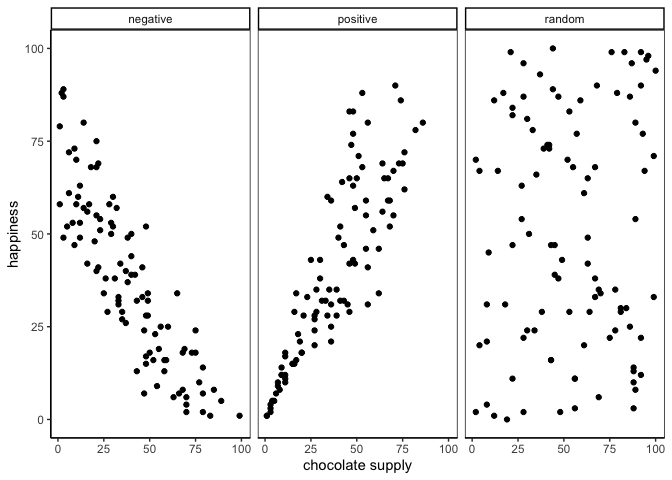
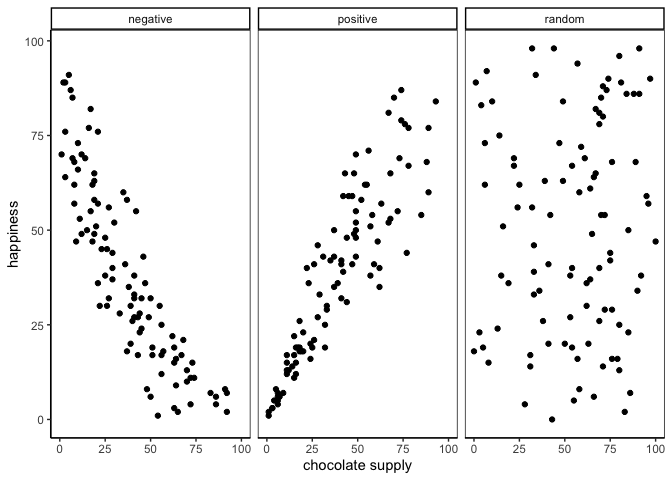
Fixed begining quotation but formatting weird/inconsistent between chapters.

diff --git a/docs/02-Correlation.html b/docs/02-Correlation.html
@@ -278,8 +278,7 @@ div.csl-indent {
 </header>
 
 <blockquote class="blockquote">
-<p>Correlation does not equal causation.*<br>
-Every Statistics Instructor Ever</p>
+<p><em>Correlation does not equal causation.</em> Every Statistics Instructor Ever</p>
 </blockquote>
 <p>In the last chapter, we worked with data that felt overwhelming at first. We used plots and histograms to make the data visible, and descriptive statistics to summarize their central tendency and variability.</p>
 <p>We learned those tools because we want to use data to answer questions. That theme runs through this course. As you read each section, keep asking yourself: how does this concept help me answer questions with data?</p>
@@ -319,12 +318,12 @@ Every Statistics Instructor Ever</p>
 <tr class="even">
 <td style="text-align: right;">2</td>
 <td style="text-align: right;">2</td>
-<td style="text-align: right;">2</td>
+<td style="text-align: right;">1</td>
 </tr>
 <tr class="odd">
 <td style="text-align: right;">3</td>
-<td style="text-align: right;">3</td>
 <td style="text-align: right;">2</td>
+<td style="text-align: right;">3</td>
 </tr>
 <tr class="even">
 <td style="text-align: right;">4</td>
@@ -338,28 +337,28 @@ Every Statistics Instructor Ever</p>
 </tr>
 <tr class="even">
 <td style="text-align: right;">6</td>
-<td style="text-align: right;">3</td>
-<td style="text-align: right;">3</td>
+<td style="text-align: right;">5</td>
+<td style="text-align: right;">5</td>
 </tr>
 <tr class="odd">
 <td style="text-align: right;">7</td>
-<td style="text-align: right;">4</td>
-<td style="text-align: right;">5</td>
+<td style="text-align: right;">7</td>
+<td style="text-align: right;">7</td>
 </tr>
 <tr class="even">
 <td style="text-align: right;">8</td>
-<td style="text-align: right;">6</td>
+<td style="text-align: right;">7</td>
 <td style="text-align: right;">5</td>
 </tr>
 <tr class="odd">
 <td style="text-align: right;">9</td>
-<td style="text-align: right;">7</td>
 <td style="text-align: right;">5</td>
+<td style="text-align: right;">8</td>
 </tr>
 <tr class="even">
 <td style="text-align: right;">10</td>
-<td style="text-align: right;">5</td>
-<td style="text-align: right;">6</td>
+<td style="text-align: right;">10</td>
+<td style="text-align: right;">7</td>
 </tr>
 </tbody>
 </table>
@@ -456,13 +455,13 @@ Note
 <tr class="even">
 <td style="text-align: left;">2</td>
 <td style="text-align: left;">2</td>
+<td style="text-align: left;">1</td>
 <td style="text-align: left;">2</td>
-<td style="text-align: left;">4</td>
 </tr>
 <tr class="odd">
 <td style="text-align: left;">3</td>
-<td style="text-align: left;">3</td>
 <td style="text-align: left;">2</td>
+<td style="text-align: left;">3</td>
 <td style="text-align: left;">6</td>
 </tr>
 <tr class="even">
@@ -479,45 +478,45 @@ Note
 </tr>
 <tr class="even">
 <td style="text-align: left;">6</td>
-<td style="text-align: left;">3</td>
-<td style="text-align: left;">3</td>
-<td style="text-align: left;">9</td>
+<td style="text-align: left;">5</td>
+<td style="text-align: left;">5</td>
+<td style="text-align: left;">25</td>
 </tr>
 <tr class="odd">
 <td style="text-align: left;">7</td>
-<td style="text-align: left;">4</td>
-<td style="text-align: left;">5</td>
-<td style="text-align: left;">20</td>
+<td style="text-align: left;">7</td>
+<td style="text-align: left;">7</td>
+<td style="text-align: left;">49</td>
 </tr>
 <tr class="even">
 <td style="text-align: left;">8</td>
-<td style="text-align: left;">6</td>
-<td style="text-align: left;">5</td>
-<td style="text-align: left;">30</td>
-</tr>
-<tr class="odd">
-<td style="text-align: left;">9</td>
 <td style="text-align: left;">7</td>
 <td style="text-align: left;">5</td>
 <td style="text-align: left;">35</td>
 </tr>
+<tr class="odd">
+<td style="text-align: left;">9</td>
+<td style="text-align: left;">5</td>
+<td style="text-align: left;">8</td>
+<td style="text-align: left;">40</td>
+</tr>
 <tr class="even">
 <td style="text-align: left;">10</td>
-<td style="text-align: left;">5</td>
-<td style="text-align: left;">6</td>
-<td style="text-align: left;">30</td>
+<td style="text-align: left;">10</td>
+<td style="text-align: left;">7</td>
+<td style="text-align: left;">70</td>
 </tr>
 <tr class="odd">
 <td style="text-align: left;">Sums</td>
-<td style="text-align: left;">38</td>
-<td style="text-align: left;">36</td>
-<td style="text-align: left;">160</td>
+<td style="text-align: left;">46</td>
+<td style="text-align: left;">44</td>
+<td style="text-align: left;">253</td>
 </tr>
 <tr class="even">
 <td style="text-align: left;">Means</td>
-<td style="text-align: left;">3.8</td>
-<td style="text-align: left;">3.6</td>
-<td style="text-align: left;">16</td>
+<td style="text-align: left;">4.6</td>
+<td style="text-align: left;">4.4</td>
+<td style="text-align: left;">25.3</td>
 </tr>
 </tbody>
 </table>
@@ -731,97 +730,97 @@ Note
 <td style="text-align: left;">1</td>
 <td style="text-align: left;">1</td>
 <td style="text-align: left;">1</td>
-<td style="text-align: left;">-2.8</td>
-<td style="text-align: left;">-2.6</td>
-<td style="text-align: left;">7.28</td>
+<td style="text-align: left;">-3.6</td>
+<td style="text-align: left;">-3.4</td>
+<td style="text-align: left;">12.24</td>
 </tr>
 <tr class="even">
 <td style="text-align: left;">2</td>
 <td style="text-align: left;">2</td>
-<td style="text-align: left;">2</td>
-<td style="text-align: left;">-1.8</td>
-<td style="text-align: left;">-1.6</td>
-<td style="text-align: left;">2.88</td>
+<td style="text-align: left;">1</td>
+<td style="text-align: left;">-2.6</td>
+<td style="text-align: left;">-3.4</td>
+<td style="text-align: left;">8.84</td>
 </tr>
 <tr class="odd">
 <td style="text-align: left;">3</td>
-<td style="text-align: left;">3</td>
 <td style="text-align: left;">2</td>
-<td style="text-align: left;">-0.8</td>
-<td style="text-align: left;">-1.6</td>
-<td style="text-align: left;">1.28</td>
+<td style="text-align: left;">3</td>
+<td style="text-align: left;">-2.6</td>
+<td style="text-align: left;">-1.4</td>
+<td style="text-align: left;">3.64</td>
 </tr>
 <tr class="even">
 <td style="text-align: left;">4</td>
 <td style="text-align: left;">3</td>
 <td style="text-align: left;">3</td>
-<td style="text-align: left;">-0.8</td>
-<td style="text-align: left;">-0.6</td>
-<td style="text-align: left;">0.48</td>
+<td style="text-align: left;">-1.6</td>
+<td style="text-align: left;">-1.4</td>
+<td style="text-align: left;">2.24</td>
 </tr>
 <tr class="odd">
 <td style="text-align: left;">5</td>
 <td style="text-align: left;">4</td>
 <td style="text-align: left;">4</td>
-<td style="text-align: left;">0.2</td>
-<td style="text-align: left;">0.4</td>
-<td style="text-align: left;">0.08</td>
+<td style="text-align: left;">-0.6</td>
+<td style="text-align: left;">-0.4</td>
+<td style="text-align: left;">0.24</td>
 </tr>
 <tr class="even">
 <td style="text-align: left;">6</td>
-<td style="text-align: left;">3</td>
-<td style="text-align: left;">3</td>
-<td style="text-align: left;">-0.8</td>
-<td style="text-align: left;">-0.6</td>
-<td style="text-align: left;">0.48</td>
+<td style="text-align: left;">5</td>
+<td style="text-align: left;">5</td>
+<td style="text-align: left;">0.4</td>
+<td style="text-align: left;">0.6</td>
+<td style="text-align: left;">0.24</td>
 </tr>
 <tr class="odd">
 <td style="text-align: left;">7</td>
-<td style="text-align: left;">4</td>
-<td style="text-align: left;">5</td>
-<td style="text-align: left;">0.2</td>
-<td style="text-align: left;">1.4</td>
-<td style="text-align: left;">0.28</td>
+<td style="text-align: left;">7</td>
+<td style="text-align: left;">7</td>
+<td style="text-align: left;">2.4</td>
+<td style="text-align: left;">2.6</td>
+<td style="text-align: left;">6.24</td>
 </tr>
 <tr class="even">
 <td style="text-align: left;">8</td>
-<td style="text-align: left;">6</td>
+<td style="text-align: left;">7</td>
 <td style="text-align: left;">5</td>
-<td style="text-align: left;">2.2</td>
-<td style="text-align: left;">1.4</td>
-<td style="text-align: left;">3.08</td>
+<td style="text-align: left;">2.4</td>
+<td style="text-align: left;">0.6</td>
+<td style="text-align: left;">1.44</td>
 </tr>
 <tr class="odd">
 <td style="text-align: left;">9</td>
-<td style="text-align: left;">7</td>
 <td style="text-align: left;">5</td>
-<td style="text-align: left;">3.2</td>
-<td style="text-align: left;">1.4</td>
-<td style="text-align: left;">4.48</td>
+<td style="text-align: left;">8</td>
+<td style="text-align: left;">0.4</td>
+<td style="text-align: left;">3.6</td>
+<td style="text-align: left;">1.44</td>
 </tr>
 <tr class="even">
 <td style="text-align: left;">10</td>
-<td style="text-align: left;">5</td>
-<td style="text-align: left;">6</td>
-<td style="text-align: left;">1.2</td>
-<td style="text-align: left;">2.4</td>
-<td style="text-align: left;">2.88</td>
+<td style="text-align: left;">10</td>
+<td style="text-align: left;">7</td>
+<td style="text-align: left;">5.4</td>
+<td style="text-align: left;">2.6</td>
+<td style="text-align: left;">14.04</td>
 </tr>
 <tr class="odd">
 <td style="text-align: left;">Sums</td>
-<td style="text-align: left;">38</td>
-<td style="text-align: left;">36</td>
+<td style="text-align: left;">46</td>
+<td style="text-align: left;">44</td>
 <td style="text-align: left;">0</td>
 <td style="text-align: left;">0</td>
-<td style="text-align: left;">23</td>
+<td style="text-align: left;">51</td>
 </tr>
 <tr class="even">
 <td style="text-align: left;">Means</td>
-<td style="text-align: left;">3.8</td>
-<td style="text-align: left;">3.6</td>
+<td style="text-align: left;">4.6</td>
+<td style="text-align: left;">4.4</td>
 <td style="text-align: left;">0</td>
 <td style="text-align: left;">0</td>
-<td style="text-align: left;">2.32</td>
+<td style="text-align: left;">5.06</td>
 </tr>
 </tbody>
 </table>

diff --git a/docs/01-Data_Description.html b/docs/01-Data_Description.html
@@ -378,7 +378,7 @@ div.csl-indent {
 </div>
 </div>
 </div>
-<p>The reversal happens because Italy’s population skews older while China’s skews younger, and baseline risk rises steeply with age. Italy had a greater proportion of older people getting sick, which pulls Italy’s overall average up and China’s down. Aggregating without adjusting for age hid the within-group pattern entirely. Once we asked a more specific question, the answer reversed.</p>
+<p>The reversal happens because Italy’s population skews older while China’s skews younger, and baseline risk rises steeply with age. Italy had a greater proportion of older people getting sick, which pulls Italy’s overall average up. Similarly, China’s average is pulled down because a greater proportion of younger people are getting sick. Aggregating without adjusting for age hid the within-group pattern entirely. Once we asked a more specific question, the answer reversed.</p>
 <div class="cell">
 <div class="cell-output-display">
 <div id="fig-age-distributions" class="quarto-figure quarto-figure-center anchored">
@@ -500,11 +500,11 @@ div.csl-indent {
 <p>The consequence is easy to check. Going from 10<span class="math inline">\(^\circ\)</span>C to 20<span class="math inline">\(^\circ\)</span>C doubles the Celsius number, so it is tempting to call it twice as hot. On the Kelvin scale those same two temperatures are 283 K and 293 K, an increase of about 3.5%. The physical change is small. The doubling was an artifact of where Celsius happens to put its zero. Kelvin has a true zero, so its ratios do hold: 200 K really does carry twice the thermal energy of 100 K.</p>
 <table class="table">
 <colgroup>
-<col style="width: 12%">
-<col style="width: 12%">
-<col style="width: 23%">
-<col style="width: 27%">
-<col style="width: 23%">
+<col style="width: 19%">
+<col style="width: 19%">
+<col style="width: 19%">
+<col style="width: 22%">
+<col style="width: 19%">
 </colgroup>
 <thead>
 <tr class="header">
@@ -600,10 +600,10 @@ div.csl-indent {
 <p>Two alternative vocabularies are often clearer. In experiments, IVs are <strong>manipulations</strong> and DVs are <strong>measurements</strong>. When we are using <span class="math inline">\(X\)</span> to predict <span class="math inline">\(Y\)</span> rather than manipulating anything, the pair is <strong>predictor</strong> and <strong>outcome</strong>.</p>
 <table class="table">
 <colgroup>
-<col style="width: 34%">
-<col style="width: 30%">
-<col style="width: 18%">
-<col style="width: 17%">
+<col style="width: 29%">
+<col style="width: 27%">
+<col style="width: 21%">
+<col style="width: 21%">
 </colgroup>
 <thead>
 <tr class="header">
